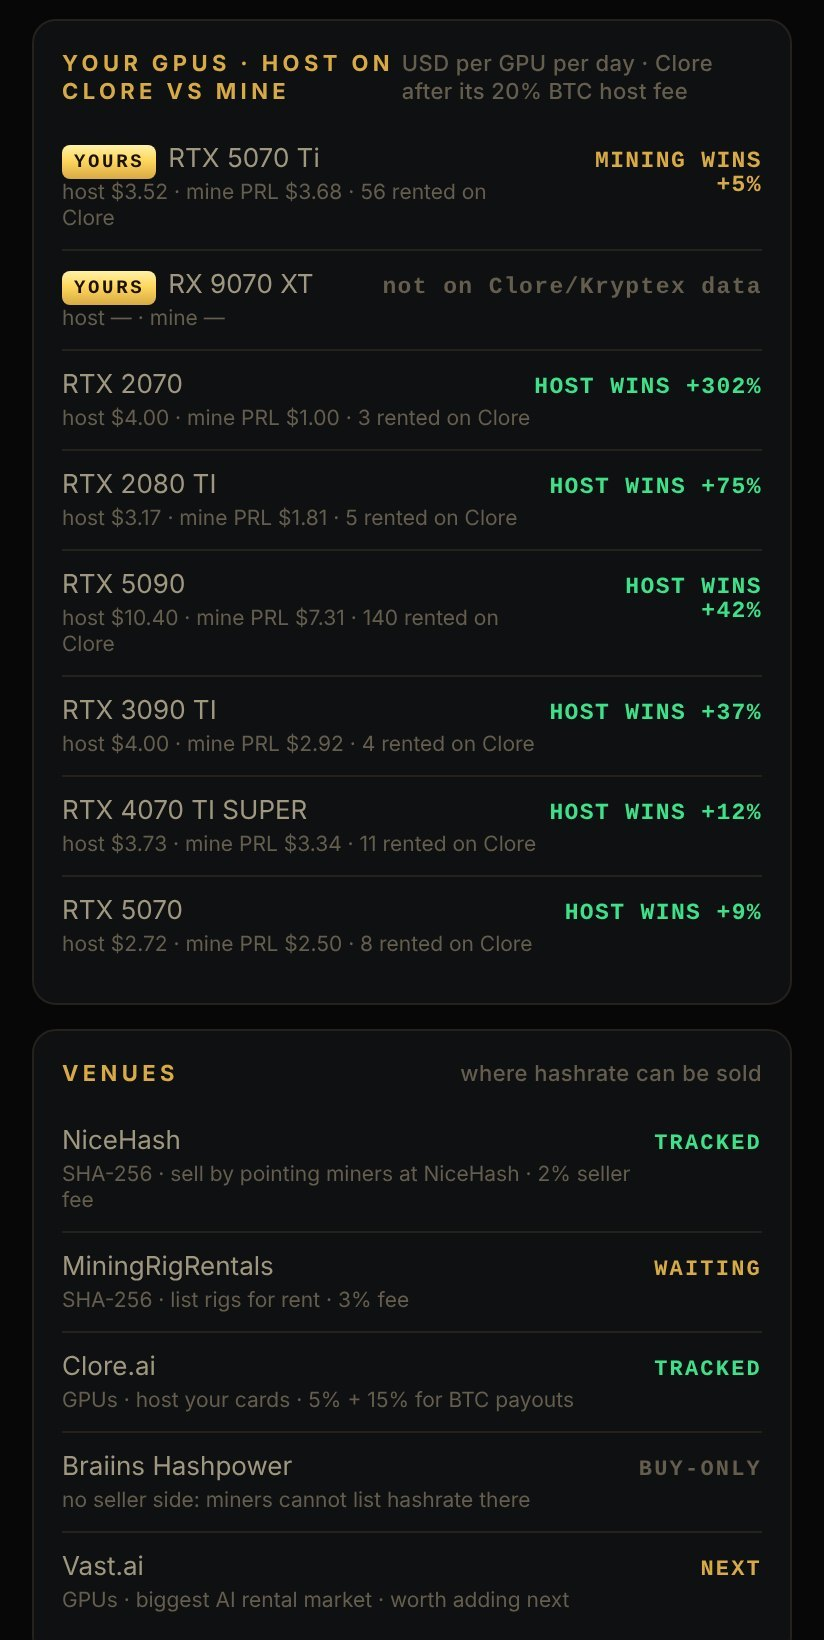
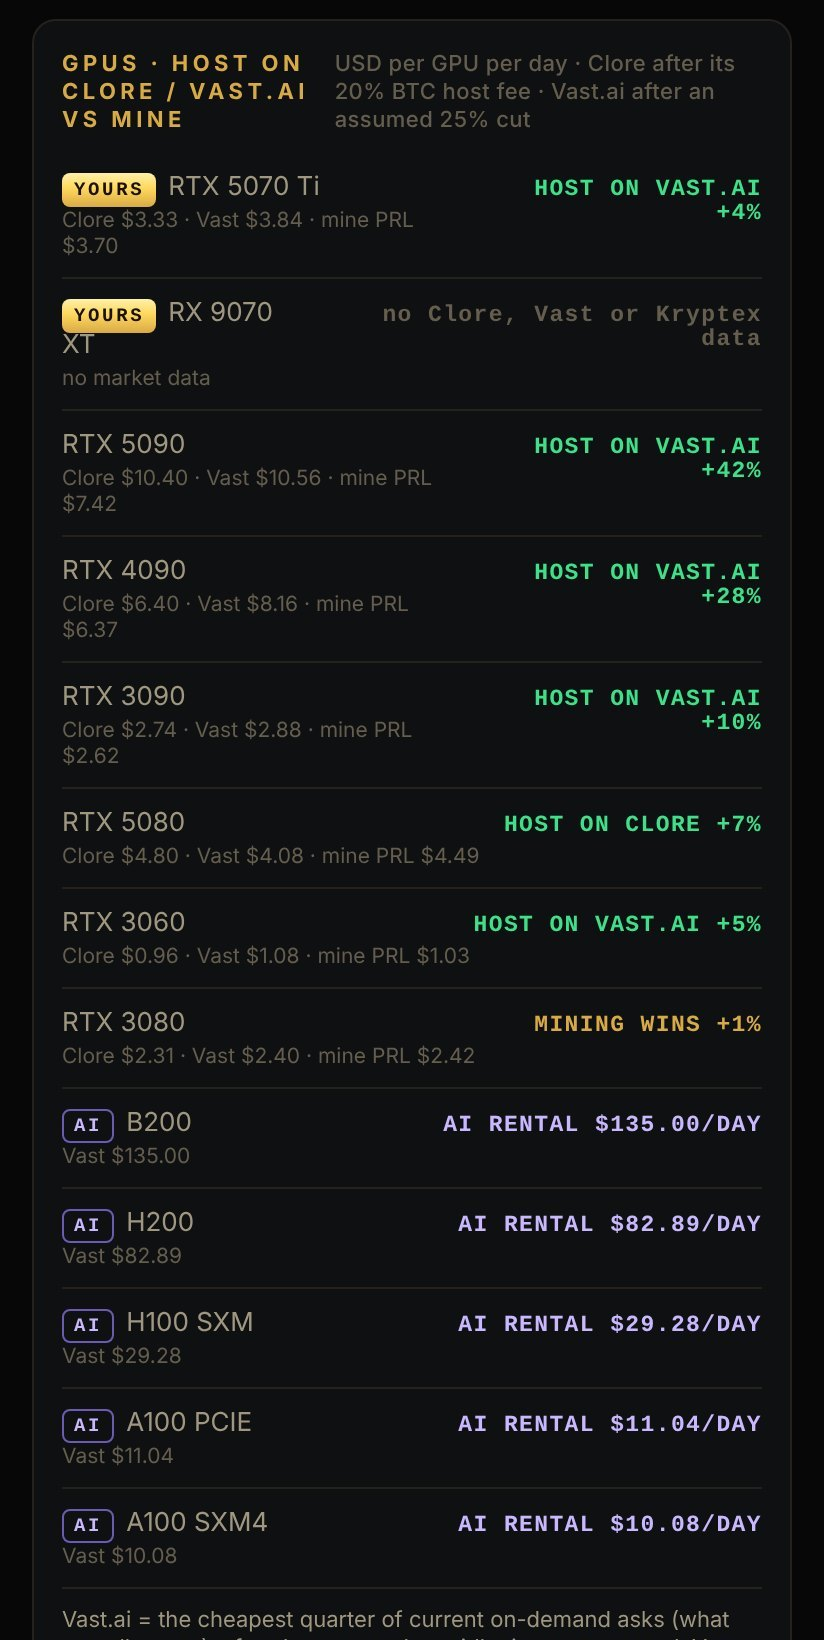
ODIN Suite 1.4: multi-venue execution engine (NiceHash, Braiins, MRR, Clore.ai), bid-aware GPU spot pricing, ten-model engine, black and gold site, PDFs and commercial

diff --git a/index.html b/index.html
@@ -943,23 +943,23 @@ odin --market nicehash live      <span class="c"># resume</span></div>
       <div class="sec-head">
         <div class="eyebrow"><b>// NEW · OUTBOUND</b> For operators who own their machines</div>
         <h2>Your hashrate, sold <span class="gold-text">only when it pays more.</span></h2>
-        <p class="lead">ODIN already prices every venue from the buyer's side. OUTBOUND turns the same models around. Every minute it measures what your pool pays against what buyers on NiceHash, MiningRigRentals and Clore.ai are paying right now, after every fee and a switching cost. When renting out beats the pool, you see it, how often, and what it would have been worth per PH/s.</p>
+        <p class="lead">ODIN already prices every venue from the buyer's side. OUTBOUND turns the same models around. Every minute it measures what your pool pays against what buyers on NiceHash and MiningRigRentals pay for hashrate, and what Clore.ai and Vast.ai renters pay for GPUs, right now, after every fee and a switching cost. When renting out beats the pool, you see it, how often, and what it would have been worth per PH/s.</p>
         <p class="lead" style="margin-top:12px">Today it runs in <b>shadow mode</b> inside HUGINN: it measures and sells nothing. For your fleet, we build the routing <b>live, on your pool and your venues</b>, and prove it on your own numbers before a single machine is switched.</p>
         <div class="ob-status"><span class="live"><b>SHADOW</b> · LIVE IN HUGINN TODAY</span><span class="build">◆ <b>ROUTING</b> · BUILT PER CUSTOMER</span><span><b>NO CUSTODY</b> · PAYOUTS GO TO YOUR WALLET</span></div>
       </div>
       <div class="ob-grid">
         <div class="ob-phones">
-          <figure class="phone"><div class="frame"><img src="media/huginn-outbound-you.jpg" alt="HUGINN OUTBOUND tab, live: pool pays 45,642 sats per PH/s per day, NiceHash sellers would get 43,865, so the pool wins by 4.9%" loading="lazy"></div><figcaption><b>Selling vs pool</b> · every minute</figcaption></figure>
+          <figure class="phone"><div class="frame"><img src="media/huginn-outbound-you.jpg" alt="HUGINN OUTBOUND tab, live: pool pays 45,648 sats per PH/s per day, NiceHash sellers would get 42,444, so the pool wins" loading="lazy"></div><figcaption><b>Selling vs pool</b> · every minute</figcaption></figure>
           <figure class="phone"><div class="frame"><img src="media/huginn-outbound-t2.jpg" alt="HUGINN OUTBOUND Tier 2 view: mid-market farms, pool side priced at a 4% fee, with F2Pool, AntPool, ViaBTC, SpiderPool and SECPOOL" loading="lazy"></div><figcaption><b>Tier 1 · 2 · 3</b> · your pool's fee</figcaption></figure>
-          <figure class="phone"><div class="frame"><img src="media/huginn-outbound-gpu.jpg" alt="HUGINN OUTBOUND GPU card: hosting on Clore vs mining, per model, with your own GPUs tagged" loading="lazy"></div><figcaption><b>GPUs</b> · host on Clore vs mine</figcaption></figure>
+          <figure class="phone"><div class="frame"><img src="media/huginn-outbound-gpu.jpg" alt="HUGINN OUTBOUND GPU card: hosting on Clore.ai and Vast.ai vs mining, per model, with your own GPUs tagged and AI rental rates for H100, H200, B200 and A100" loading="lazy"></div><figcaption><b>GPUs</b> · Clore · Vast.ai · mine</figcaption></figure>
         </div>
         <div class="ob-seq">
           <div class="step"><span class="n">01 · MEASURES</span><h3>Pool vs every buyer, every minute</h3><p>Your pool's payout after its fee, against the NiceHash clearing price after the 2% seller fee and the median price renters are paying on MiningRigRentals after its 3%. A 1% switching cost is charged against selling, so a win is a real win.</p></div>
           <div class="step"><span class="n">02 · BY TIER</span><h3>Priced at your pool's fee</h3><p>Tier 1, 2 and 3 views reprice the pool side at the fee each kind of operator actually pays, from negotiated institutional FPPS to list PPS+ and zero-fee pools. The answer changes with the fee, and OUTBOUND shows you yours.</p></div>
-          <div class="step"><span class="n">03 · GPUS TOO</span><h3>Host it or mine it</h3><p>For each GPU model, what renters pay on Clore.ai after its host fee, against what that card earns mining. Live this morning: an RTX 5090 hosted for <b>$10.40</b> a day against <b>$7.31</b> mining Pearl, while our own RTX 5070 Ti earns more mining.</p></div>
+          <div class="step"><span class="n">03 · GPUS TOO</span><h3>Host it or mine it</h3><p>For each GPU model, what renters pay on <b>Clore.ai</b> and <b>Vast.ai</b> after their cuts, against what that card earns mining. Data-centre parts show their AI rental rate. Live this morning: an RTX 5090 hosted on Vast.ai for <b>$10.56</b> a day against <b>$7.42</b> mining Pearl; an H100 SXM rents for <b>$29.28</b> a day.</p></div>
         </div>
       </div>
-      <p class="sample mono">Live capture from our own rig · 20 Nov 2026, 07:55 CST · real numbers, nothing staged: pool 45,642 vs NiceHash seller 43,865 sats per PH/s per day. Right now the pool wins by 4.9%, and OUTBOUND says so.</p>
+      <p class="sample mono">Live capture from our own rig · 20 Nov 2026, 09:00 CST · real numbers, nothing staged: pool 45,648 vs NiceHash seller 42,444 sats per PH/s per day, so right now the pool wins and OUTBOUND says so. On the GPU side, Vast.ai and Clore.ai hosting beat mining Pearl for most current cards.</p>
       <div class="ob-build">
         <h3>Built <em>live</em> for your fleet.</h3>
         <p>Outbound routing isn't a checkbox. Every operator has a different pool contract, fleet and set of venues, so we build it with you, on your infrastructure, in stages you approve.</p>
@@ -1139,7 +1139,7 @@ odin --market nicehash live      <span class="c"># resume</span></div>
           <div class="ent-cards">
             <div><h3>Linux x86_64</h3><p>Ubuntu 22.04+ and Debian 12+. Sandboxed systemd services, a no-login service account and root-only keys.</p></div>
             <div><h3>Offline licences</h3><p>Signed <span class="mono">.lic</span> files: machine-bound or site-wide, with optional expiry. No licence server needed.</p></div>
-            <div><h3>Outbound routing <span class="newpill">NEW</span></h3><p>Sell your hashrate when buyers pay more than your pool. Shadow-measured first, then built live on your pool, venues and limits.</p></div>
+            <div><h3>Outbound routing <span class="newpill">NEW</span></h3><p>Sell your hashrate when buyers pay more than your pool, or host GPUs on Clore.ai and Vast.ai when that beats mining. Shadow-measured first, then built live on your pool, venues and limits.</p></div>
             <div><h3>Audit ledger</h3><p>Hash-chained JSON lines for every decision. Feed it to Loki, Splunk or Elastic.</p></div>
             <div><h3>Published network list</h3><p>Outbound HTTPS to a short list of hosts. Nothing listens on the network; HUGINN uses loopback plus Tailscale.</p></div>
           </div>

diff --git a/README.md b/README.md
@@ -93,15 +93,15 @@ Each venue connects through an adapter that translates its native instrument (or
   <img src="assets/outbound-gpu.jpg" alt="HUGINN OUTBOUND GPUs: hosting on Clore vs mining, per model" width="31%">
 </p>
 
-ODIN prices every venue from the buyer's side. **OUTBOUND** turns the same models around for operators who own their machines. Every minute it compares what your pool pays (after its fee) with what buyers pay right now on **NiceHash** (clearing price, 2% seller fee) and **MiningRigRentals** (median rented price, 3% fee), less a 1% switching cost. For GPUs it compares hosting each model on **Clore.ai** (after its host fee) with mining on it.
+ODIN prices every venue from the buyer's side. **OUTBOUND** turns the same models around for operators who own their machines. Every minute it compares what your pool pays (after its fee) with what buyers pay right now on **NiceHash** (clearing price, 2% seller fee) and **MiningRigRentals** (median rented price, 3% fee), less a 1% switching cost. For GPUs it compares hosting each model on **Clore.ai** and **Vast.ai** (after their cuts) with mining on it, and shows the AI rental rate for data-centre parts (H100, H200, B200, A100).
 
 | | What it does |
 | --- | --- |
 | **Shadow · live in HUGINN today** | Measures and sells nothing. Shows how often selling would have beaten the pool and what that was worth per PH/s per day. **Tier 1 / 2 / 3** views reprice the pool side at the fee each class of operator pays. |
 | **Routing · built per customer** | Built live with you: your pool connected (Foundry, Luxor, F2Pool, AntPool, ViaBTC, Braiins, OCEAN, …), one relay so miners are pointed once, seller accounts in your name with list-and-price keys only, caps per machine and site, SLEIPNIR heat cut-offs, a kill switch, and every switch in the hash-chained audit ledger. A 72-hour shadow run on your own numbers comes first. |
-| **Venues** | NiceHash and MiningRigRentals (SHA-256), Clore.ai (GPU hosting). Braiins Hashpower is buy-only, so there is nothing to sell into. Vast.ai is next for GPUs. |
+| **Venues** | NiceHash and MiningRigRentals (SHA-256); Clore.ai and Vast.ai (GPU hosting). Braiins Hashpower is buy-only, so there is nothing to sell into. Vast.ai does not publish its host cut; OUTBOUND assumes 25% and prices from the cheapest quarter of live asks. |
 
-<sub>Live capture from our own rig, 20 Nov 2026 07:55 CST: pool 45,642 vs NiceHash seller 43,865 sats per PH/s per day, so the pool wins by 4.9% and OUTBOUND says so. On Clore an RTX 5090 hosted for $10.40/day against $7.31 mining Pearl. <a href="https://asgardhashworks.github.io/odin-suite-releases/#outbound">Talk to us about your fleet →</a></sub>
+<sub>Live capture from our own rig, 20 Nov 2026 09:00 CST: pool 45,648 vs NiceHash seller 42,444 sats per PH/s per day, so the pool wins and OUTBOUND says so. On Vast.ai an RTX 5090 hosts for $10.56/day against $7.42 mining Pearl, and an H100 SXM rents for $29.28/day. <a href="https://asgardhashworks.github.io/odin-suite-releases/#outbound">Talk to us about your fleet →</a></sub>
 
 <img src="assets/h05.png" alt="05 Quantitative engine" width="100%">
 
